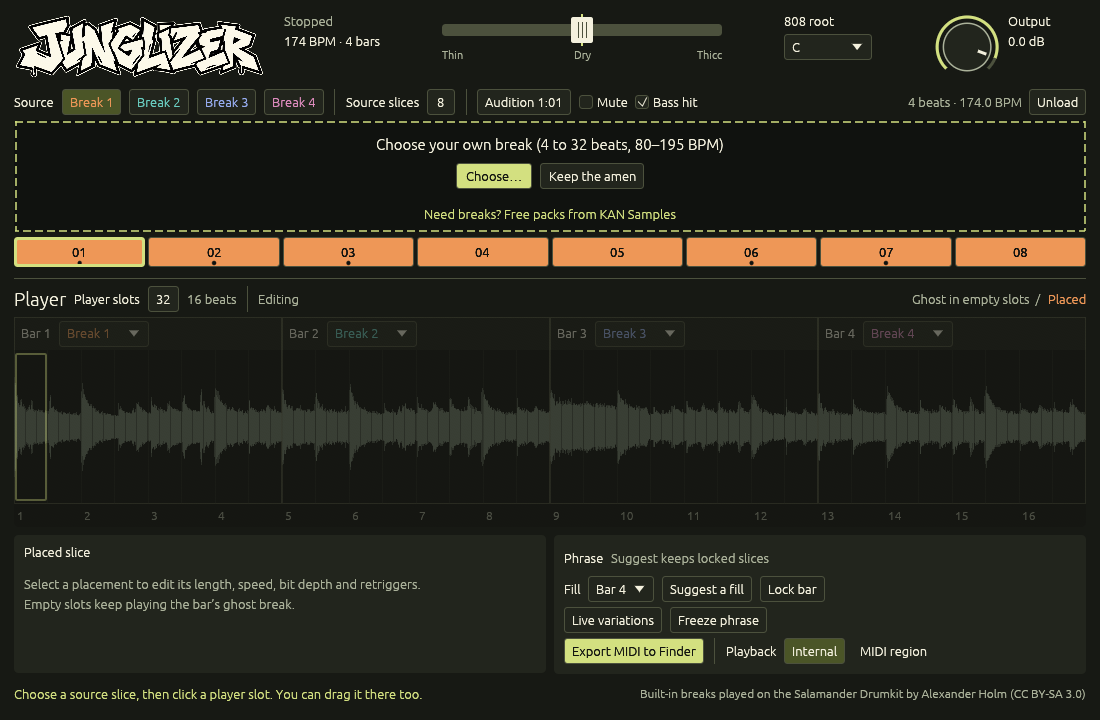
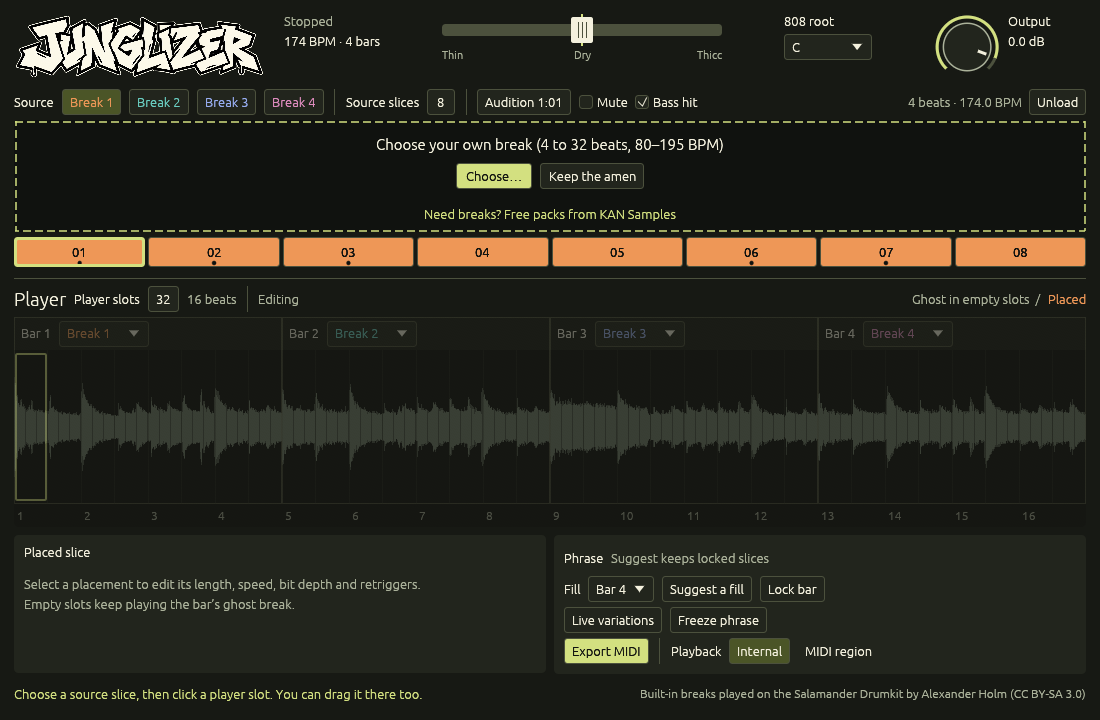
Platform export folder, reveal and host-neutral copy

Changed region(s): [[0.5873, 0.8861, 0.8345, 0.9472]]

diff --git a/src/ui.rs b/src/ui.rs
@@ -810,7 +810,7 @@ impl JunglizerUi {
     fn freeze_live(&mut self, context: &PluginContext<JunglizerParams>) -> bool {
         let Some(captured) = context.params().live_snapshot.capture() else {
             self.message =
-                "Start Logic playback to hear a live variation before freezing it.".into();
+                "Start playback in your DAW to hear a live variation before freezing it.".into();
             return false;
         };
         self.state.update(|state| {
@@ -848,24 +848,39 @@ impl JunglizerUi {
             context.params().root.value() as u8,
         ) {
             Ok(path) => {
-                let _ = std::process::Command::new("open")
-                    .arg("-R")
-                    .arg(&path)
-                    .spawn();
-                self.export_path = Some(path);
-                self.message = if self.state.get().frozen {
-                    "MIDI saved to ~/Music/Junglizer/Exports; phrase frozen. Drag to this Logic track, then choose MIDI region."
-                } else {
-                    "MIDI saved to ~/Music/Junglizer/Exports. Drag to this Logic track, then choose MIDI region."
+                if cfg!(target_os = "macos") {
+                    crate::platform::reveal(&path);
                 }
+                self.export_path = Some(path);
+                let frozen = if self.state.get().frozen {
+                    "; phrase frozen"
+                } else {
+                    ""
+                };
+                self.message = format!(
+                    "MIDI saved to {}{frozen}. Drag it onto this track, then choose MIDI region.",
+                    export_dir_label()
+                )
                 .into();
             }
             Err(_) => {
                 self.export_path = None;
-                self.message = "Could not save MIDI. Check write access to ~/Music/Junglizer/Exports and try again.".into();
+                self.message = format!(
+                    "Couldn’t save MIDI. Check write access to {} and try again.",
+                    export_dir_label()
+                )
+                .into();
             }
         }
     }
+}
+
+/// The export folder as shown in messages and tooltips.
+fn export_dir_label() -> String {
+    crate::platform::export_dir().map_or_else(
+        || "your Music folder".to_owned(),
+        |dir| dir.display().to_string(),
+    )
 }
 
 impl EditorUi<JunglizerParams> for JunglizerUi {
@@ -966,7 +981,12 @@ impl EditorUi<JunglizerParams> for JunglizerUi {
                         else if initial && self.state.get().live_enabled { "A new phrase every four bars. Freeze the one you want to keep." }
                         else { &self.message };
                     let response = ui.colored_label(ACCENT, message);
-                    if let Some(path) = &self.export_path { response.on_hover_text(path.display().to_string()); }
+                    if let Some(path) = self.export_path.clone() {
+                        response.on_hover_text(path.display().to_string());
+                        if ui.small_button(crate::platform::REVEAL_LABEL).clicked() {
+                            crate::platform::reveal(&path);
+                        }
+                    }
                     ui.with_layout(egui::Layout::right_to_left(egui::Align::Center), |ui| {
                         ui.label(egui::RichText::new(CREDIT).small().color(MUTED));
                     });
@@ -1646,12 +1666,28 @@ impl JunglizerUi {
             }
         });
         ui.horizontal(|ui| {
-            if ui.add(egui::Button::new(egui::RichText::new("Export MIDI to Finder").color(WELL).strong()).fill(ACCENT)).on_hover_text("Save four bars to ~/Music/Junglizer/Exports. Live variations are frozen before export.").clicked() { self.export_midi(context); }
-            ui.separator(); ui.label("Playback");
+            if ui
+                .add(
+                    egui::Button::new(egui::RichText::new("Export MIDI").color(WELL).strong())
+                        .fill(ACCENT),
+                )
+                .on_hover_text(format!(
+                    "Save four bars to {}. Live variations are frozen before export.",
+                    export_dir_label()
+                ))
+                .clicked()
+            {
+                self.export_midi(context);
+            }
+            ui.separator();
+            ui.label("Playback");
             let midi = context.params().playback.value() != 0;
-            if ui.selectable_label(!midi, "Internal").clicked() { context.automate(P::Playback, 0.0); }
-            if ui.selectable_label(midi, "MIDI region").clicked() { context.automate(P::Playback, 1.0); }
-
+            if ui.selectable_label(!midi, "Internal").clicked() {
+                context.automate(P::Playback, 0.0);
+            }
+            if ui.selectable_label(midi, "MIDI region").clicked() {
+                context.automate(P::Playback, 1.0);
+            }
         });
     }
 }

diff --git a/src/platform.rs b/src/platform.rs
@@ -1,12 +1,56 @@
 //! Per-machine locations and handing things to the operating system.
 
 use std::ffi::OsString;
-use std::path::PathBuf;
+use std::path::{Path, PathBuf};
 
 /// The empty file that records the first-launch prompt was answered on
 /// this machine, or `None` when there's no config folder.
 pub fn first_run_flag() -> Option<PathBuf> {
     dirs::config_dir().map(|dir| dir.join("Junglizer").join("first-run-0.9.1"))
+}
+
+/// Where MIDI exports go: the user's music folder (or `~/Music`) plus
+/// `Junglizer/Exports`. `None` when there's no home folder.
+pub fn export_dir() -> Option<PathBuf> {
+    let music = dirs::audio_dir().or_else(|| dirs::home_dir().map(|home| home.join("Music")))?;
+    Some(music.join("Junglizer").join("Exports"))
+}
+
+/// The label for the reveal button, named for this system's file manager.
+pub const REVEAL_LABEL: &str = if cfg!(target_os = "macos") {
+    "Show in Finder"
+} else if cfg!(target_os = "windows") {
+    "Show in Explorer"
+} else {
+    "Show in Files"
+};
+
+/// The command that reveals `path` in the file manager. macOS and Windows
+/// select the file; Linux has no portable select, so it opens the parent
+/// folder. No shell is involved.
+pub fn reveal_command(path: &Path) -> (&'static str, Vec<OsString>) {
+    if cfg!(target_os = "macos") {
+        ("open", vec![OsString::from("-R"), path.into()])
+    } else if cfg!(target_os = "windows") {
+        let mut arg = OsString::from("/select,");
+        arg.push(path);
+        ("explorer", vec![arg])
+    } else {
+        let parent = path.parent().unwrap_or(path);
+        ("xdg-open", vec![parent.into()])
+    }
+}
+
+/// Reveals `path` in the file manager, spawning and returning at once.
+pub fn reveal(path: &Path) {
+    let (program, args) = reveal_command(path);
+    spawn_detached(program, args);
+}
+
+fn spawn_detached(program: &str, args: Vec<OsString>) {
+    if let Ok(mut child) = std::process::Command::new(program).args(args).spawn() {
+        std::thread::spawn(move || child.wait());
+    }
 }
 
 /// The system opener and its arguments for `url`. No shell is involved,
@@ -27,14 +71,41 @@ pub fn open_url_command(url: &str) -> (&'static str, Vec<OsString>) {
 /// background thread reaps it so it doesn't linger as a zombie.
 pub fn open_url(url: &str) {
     let (program, args) = open_url_command(url);
-    if let Ok(mut child) = std::process::Command::new(program).args(args).spawn() {
-        std::thread::spawn(move || child.wait());
-    }
+    spawn_detached(program, args);
 }
 
 #[cfg(test)]
 mod tests {
     use super::*;
+
+    #[test]
+    fn export_dir_ends_in_junglizer_exports() {
+        assert!(
+            export_dir()
+                .unwrap()
+                .ends_with(Path::new("Junglizer").join("Exports"))
+        );
+    }
+
+    #[test]
+    fn reveal_command_matches_this_os() {
+        let (program, args) = reveal_command(Path::new("/tmp/x.mid"));
+        #[cfg(target_os = "macos")]
+        {
+            assert_eq!(program, "open");
+            assert_eq!(args[0], "-R");
+        }
+        #[cfg(target_os = "windows")]
+        {
+            assert_eq!(program, "explorer");
+            assert!(args[0].to_string_lossy().starts_with("/select,"));
+        }
+        #[cfg(target_os = "linux")]
+        {
+            assert_eq!(program, "xdg-open");
+            assert_eq!(args[0], "/tmp");
+        }
+    }
 
     #[test]
     fn open_url_uses_the_system_opener_without_a_shell() {

diff --git a/src/midi.rs b/src/midi.rs
@@ -76,7 +76,7 @@ pub fn build_midi(pattern: &EditState, bars: [u8; 4], thin_thicc: f32, root: u8)
     }
     events.sort_by_key(|event| (event.tick, event.priority));
     let mut track = Vec::with_capacity(events.len() * 5 + 64);
-    // A track name helps distinguish the file in Logic's import browser.
+    // A track name helps distinguish the file in a DAW's import browser.
     track.extend_from_slice(&[0, 0xff, 0x03, 0x09]);
     track.extend_from_slice(b"Junglizer");
     let mut previous_tick = 0;
@@ -106,10 +106,8 @@ pub fn export_to_music(
     thin_thicc: f32,
     root: u8,
 ) -> io::Result<PathBuf> {
-    let home = std::env::var_os("HOME")
-        .map(PathBuf::from)
-        .ok_or_else(|| io::Error::new(io::ErrorKind::NotFound, "home folder"))?;
-    let directory = home.join("Music/Junglizer/Exports");
+    let directory = crate::platform::export_dir()
+        .ok_or_else(|| io::Error::new(io::ErrorKind::NotFound, "music folder"))?;
     fs::create_dir_all(&directory)?;
     let timestamp = std::time::SystemTime::now()
         .duration_since(std::time::UNIX_EPOCH)

diff --git a/src/ui_tests.rs b/src/ui_tests.rs
@@ -155,11 +155,11 @@ fn fixture(
         editor.export_path = Some(PathBuf::from(
             "~/Music/Junglizer/Exports/junglizer-example.mid",
         ));
-        editor.message = "MIDI saved to ~/Music/Junglizer/Exports. Drag to this Logic track, then choose MIDI region.".into();
+        editor.message = "MIDI saved to ~/Music/Junglizer/Exports. Drag it onto this track, then choose MIDI region.".into();
     }
     if name == "export-failure" {
         editor.message =
-            "Could not save MIDI. Check write access to ~/Music/Junglizer/Exports and try again."
+            "Couldn’t save MIDI. Check write access to ~/Music/Junglizer/Exports and try again."
                 .into();
     }
     if name == "user-16-beats" {
